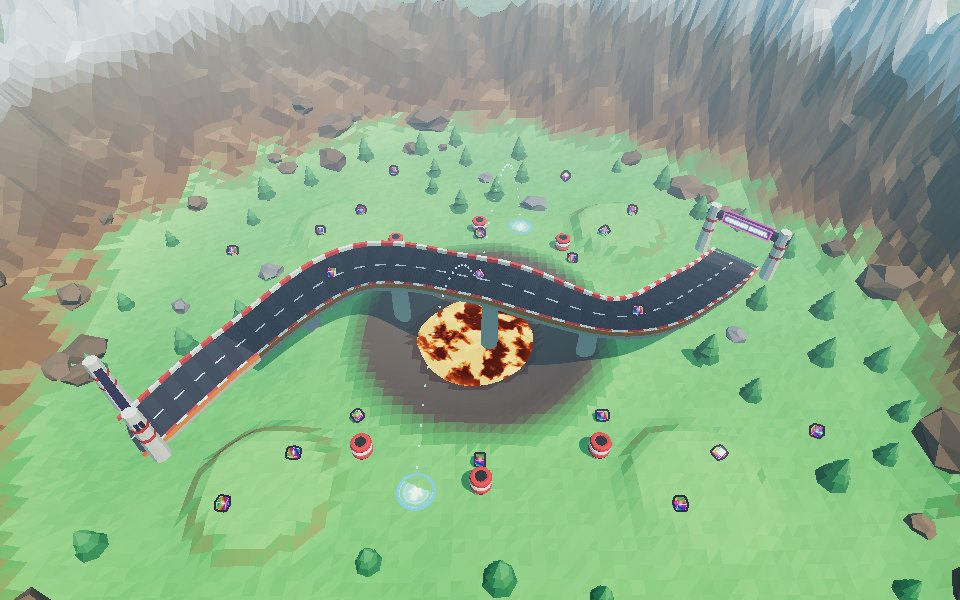
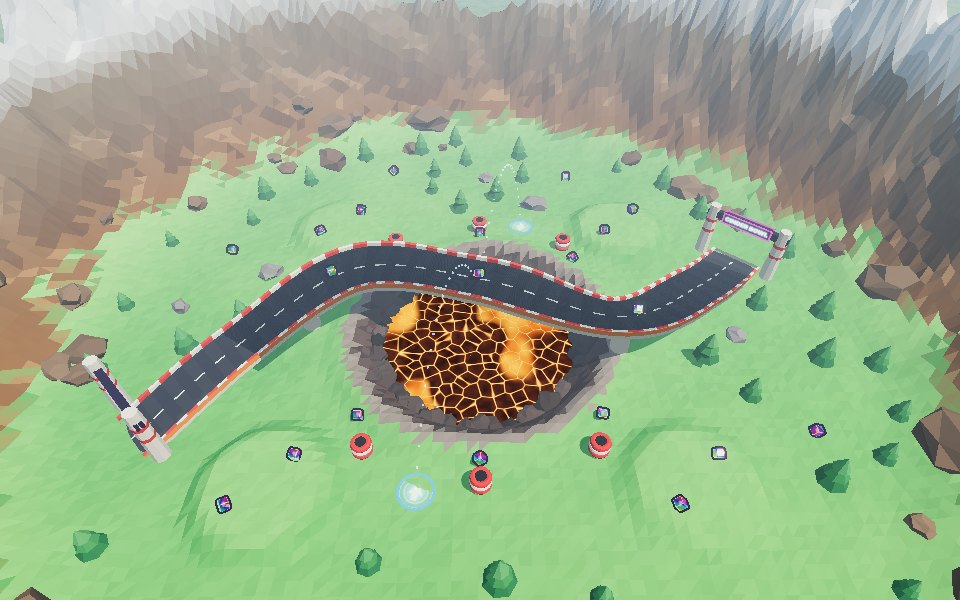
Kart: The Cinder Bowl's crater, done properly
The crater read badly from above:
- The lava was a pale beige disc with brown blotches (a pizza, not
  lava).
- The crater was a soft dark smudge round it.
- A viaduct pillar stood in the middle of the pool.
- Plateau edges left brown scribbles on the grass.
- The concrete came out teal.

Fixes:
- Lava is now a cracked-magma shader: drifting plates of black crust
  split by glowing orange-yellow seams, open molten pools between, the
  seams pulsing. It fills the whole crater, so the walls make the
  shoreline, and a ring of dark rocks traces that shoreline.
- The crater is a sunken lava lake: a wide flat bottom, steep basalt
  walls, a grey rock lip. Its edges are crisp facets, and inside the
  bowl the ground is all grass, steeper faces just darker.
- No pillars stand in the crater; the span crosses it in one go.
- The fill light keeps its sky-to-ground bounce in paler colours, so
  pale surfaces in shade stay neutral; the sun is stronger.

CPU drivers no longer path over ground too steep to hold a line (a
crater wall, a cliff): it's off the navigation grid, and moderately
steep ground costs more. In 2-minute runs with 8 drivers, those
driving into the lava on their own fell from 7 to 4 at normal and from
3 to 1 at hard, and they spend two to three times as long up on the
viaduct.

Claude-Session: https://claude.ai/code/session_01A9wR1JituBUUrjouTyRq7z

diff --git a/public/js/games/kart3d/sculpt3d.js b/public/js/games/kart3d/sculpt3d.js
@@ -37,15 +37,23 @@ const lowpolyMat = () => new THREE.MeshLambertMaterial({ vertexColors: true, fla
 
 // ---------- the ground ----------
 const BANDS = {
-  rock: col('#2b2d2f'), ember: col('#4a2c22'), ash: col('#5a4a40'),
+  rock: col('#2b2d2f'), ember: col('#6a3326'), ash: col('#5a4a40'), basalt: col('#5c4d49'), basaltDark: col('#4a3d3a'), lip: col('#8d847d'),
   grass: col('#5ec962'), grassDark: col('#48b052'), grassLight: col('#7fd86f'),
   dirt: col('#a87b4f'), cliff: col('#8c6239'), cliffDark: col('#6f4a2b'), stone: col('#8f8274'), snow: col('#e6f2ff'),
 };
-// The colour of one face: by height, steepness (up: the y of its normal) and how near the crater.
-function groundColour(h, up, crater, n) {
+// The colour of one face: by height, steepness (up: the y of its normal) and how near the crater
+// (its distance from the middle over the crater's radius). The crater is black basalt down to the
+// lava, a ring of grey rock round its lip, then straight onto grass: crisp edges, no smudges.
+function groundColour(h, up, crater, n, inBowl) {
   const b = BANDS;
-  if (h < -40) return lerpCol(b.rock, b.ember, (h + 100) / 60);
-  if (crater < 1.15) return lerpCol(b.ash, b.grassDark, (crater - 0.95) / 0.2);
+  const edge = 1.04 + (n - 0.5) * 0.06; // a ragged line between rock and grass
+  if (crater < edge - 0.1) return (n > 0.5 ? b.basalt : b.basaltDark).clone().lerp(b.ember, h < -30 ? 0.5 : 0);
+  if (crater < edge) return b.lip.clone().offsetHSL(0, 0, (n - 0.5) * 0.06);
+  if (inBowl) {
+    // Inside the bowl it's all grass: steeper faces just a shade darker.
+    const g = lerpCol(b.grassDark, b.grassLight, 0.35 + h / 140 - (1 - up) * 1.5);
+    return g.offsetHSL(0, 0, (n - 0.5) * 0.05);
+  }
   if (up < 0.72) {
     // Cliffs: earth low down, grey stone higher up, snow on the tops.
     if (h > 520) return lerpCol(b.stone, b.snow, (h - 520) / 140);
@@ -53,7 +61,7 @@ function groundColour(h, up, crater, n) {
   }
   if (h > 560) return b.snow;
   if (h > 150) return lerpCol(b.dirt, b.stone, (h - 150) / 300);
-  if (up < 0.86) return lerpCol(b.dirt, b.grassDark, (up - 0.72) / 0.14);
+  if (up < 0.8) return lerpCol(b.dirt, b.grassDark, (up - 0.72) / 0.08);
   const g = lerpCol(b.grassDark, b.grassLight, 0.35 + h / 140);
   return g.offsetHSL(0, 0, (n - 0.5) * 0.05);
 }
@@ -62,6 +70,7 @@ export function buildLowPolyLand(scene, map) {
   const land = map.land;
   const { n, cell: c, h } = land;
   const crater = (map.terrain.craters || [])[0];
+  const bowl = map.terrain.bowl;
   const quads = (n - 1) * (n - 1);
   const pos = new Float32Array(quads * 18);
   const colour = new Float32Array(quads * 18);
@@ -79,7 +88,8 @@ export function buildLowPolyLand(scene, map) {
     const cx = (a[0] + b[0] + d[0]) / 3;
     const cz = (a[2] + b[2] + d[2]) / 3;
     const cr = crater ? Math.hypot(cx - crater.x, cz - crater.y) / crater.r : 9;
-    const cc = groundColour(mh, up, cr, hash(i, j, t));
+    const inBowl = !!bowl && Math.hypot(cx - bowl.x, cz - bowl.y) < bowl.r + 40;
+    const cc = groundColour(mh, up, cr, hash(i, j, t), inBowl);
     for (const p of v) {
       pos[o] = p.x; pos[o + 1] = p.y; pos[o + 2] = p.z;
       colour[o] = cc.r; colour[o + 1] = cc.g; colour[o + 2] = cc.b;
@@ -136,42 +146,79 @@ export function buildLowPolyLand(scene, map) {
 export function buildLavaPool(scene, map, ctx) {
   const lz = map.liquid.z;
   for (const c of map.terrain.craters || []) {
-    let pool = 0;
-    for (let r = 0; r < c.r; r += 6) if (map.land.at(c.x + r, c.y) < lz && map.land.at(c.x - r, c.y) < lz) pool = r;
+    // The shoreline: at each angle, how far out the ground stays under the lava.
+    const N = 96;
+    const shoreR = [];
+    for (let k = 0; k < N; k++) {
+      const a = (k / N) * TAU;
+      let r = 0;
+      while (r < c.r * 1.2 && map.land.at(c.x + Math.cos(a) * r, c.y + Math.sin(a) * r) < lz) r += 4;
+      shoreR.push(r);
+    }
+    const pool = Math.max(...shoreR);
     if (!pool) continue;
+    // Cracked magma: plates of black crust (Voronoi cells, slowly drifting) split by glowing seams,
+    // with open pools of molten rock between; the seams pulse.
     const mat = new THREE.ShaderMaterial({
-      uniforms: { uTime: ctx.uniforms.uTime, uR: { value: pool + 60 } },
+      uniforms: { uTime: ctx.uniforms.uTime },
       vertexShader: 'varying vec2 vP; void main(){ vP = position.xz; gl_Position = projectionMatrix * modelViewMatrix * vec4(position, 1.0); }',
       fragmentShader: `
-        uniform float uTime; uniform float uR; varying vec2 vP;
-        float h(vec2 p){ return fract(sin(dot(p, vec2(127.1, 311.7))) * 43758.5453); }
-        float n(vec2 p){ vec2 i = floor(p); vec2 f = fract(p); f = f * f * (3.0 - 2.0 * f);
-          return mix(mix(h(i), h(i + vec2(1.0, 0.0)), f.x), mix(h(i + vec2(0.0, 1.0)), h(i + vec2(1.0, 1.0)), f.x), f.y); }
-        float fbm(vec2 p){ float s = 0.0; float a = 0.5; for (int k = 0; k < 4; k++) { s += n(p) * a; p = p * 2.03 + vec2(1.7, 9.2); a *= 0.5; } return s; }
+        uniform float uTime; varying vec2 vP;
+        vec2 h2(vec2 p){ p = vec2(dot(p, vec2(127.1, 311.7)), dot(p, vec2(269.5, 183.3))); return fract(sin(p) * 43758.5453); }
+        float h1(vec2 p){ return fract(sin(dot(p, vec2(41.3, 289.1))) * 43758.5453); }
+        float vn(vec2 p){ vec2 i = floor(p); vec2 f = fract(p); f = f * f * (3.0 - 2.0 * f);
+          return mix(mix(h1(i), h1(i + vec2(1.0, 0.0)), f.x), mix(h1(i + vec2(0.0, 1.0)), h1(i + vec2(1.0, 1.0)), f.x), f.y); }
+        // Distance to the nearest cell centre, and how far from a seam (second nearest minus nearest).
+        vec2 cells(vec2 x, float t){
+          vec2 n = floor(x); vec2 f = fract(x);
+          float f1 = 9.0; float f2 = 9.0;
+          for (int j = -1; j <= 1; j++) for (int i = -1; i <= 1; i++) {
+            vec2 g = vec2(float(i), float(j));
+            vec2 o = h2(n + g);
+            o = 0.5 + 0.4 * sin(t + 6.2831 * o);
+            vec2 r = g + o - f;
+            float d = dot(r, r);
+            if (d < f1) { f2 = f1; f1 = d; } else if (d < f2) { f2 = d; }
+          }
+          return vec2(sqrt(f1), sqrt(f2) - sqrt(f1));
+        }
         void main() {
-          vec2 p = vP / 70.0;
-          float t = uTime * 0.12;
-          float w = fbm(p + vec2(t, -t * 0.7));
-          float crust = fbm(p * 1.7 - vec2(t * 0.6, t * 0.4) + w * 1.6);
-          float shore = smoothstep(uR * 0.62, uR * 0.98, length(vP));
-          float heat = clamp(1.0 - smoothstep(0.4, 0.58, crust) + shore * 0.45, 0.0, 1.0);
-          vec3 cold = vec3(0.13, 0.03, 0.02);
-          vec3 red = vec3(0.62, 0.1, 0.03);
-          vec3 orange = vec3(1.05, 0.34, 0.05);
-          vec3 yellow = vec3(1.35, 0.9, 0.22);
-          vec3 col = heat < 0.5 ? mix(cold, red, heat * 2.0) : heat < 0.8 ? mix(red, orange, (heat - 0.5) / 0.3) : mix(orange, yellow, (heat - 0.8) / 0.2);
-          col *= 0.85 + 0.15 * sin(uTime * 1.7 + w * 9.0);
+          vec2 p = vP / 46.0;
+          float t = uTime * 0.25;
+          vec2 c = cells(p + vec2(t * 0.15, -t * 0.1), t);
+          float seam = 1.0 - smoothstep(0.0, 0.16, c.y);
+          float pool = smoothstep(0.55, 0.75, vn(p * 0.45 + vec2(-t * 0.2, t * 0.13)));
+          float pulse = 0.8 + 0.2 * sin(uTime * 2.3 + vn(p * 2.0) * 6.0);
+          vec3 crust = mix(vec3(0.05, 0.022, 0.02), vec3(0.13, 0.04, 0.025), vn(p * 3.0)) * (0.75 + 0.5 * c.x);
+          vec3 molten = mix(vec3(0.85, 0.12, 0.01), vec3(1.6, 0.55, 0.05), vn(p * 1.3 + t));
+          vec3 col = mix(crust, molten, max(pool, 0.0));
+          vec3 glow = mix(vec3(0.9, 0.16, 0.01), vec3(2.1, 0.95, 0.15), seam * seam);
+          col = mix(col, glow * pulse, seam * (1.0 - pool * 0.6));
           gl_FragColor = vec4(col, 1.0);
         }`,
     });
-    // The disc is centred on the crater; vP is measured from its middle.
-    const disc = new THREE.Mesh(new THREE.CircleGeometry(pool + 60, 72).rotateX(-Math.PI / 2), mat);
+    // One disc over the whole crater (the walls hide what's above the shore); vP from its middle.
+    const disc = new THREE.Mesh(new THREE.CircleGeometry(pool + 40, 96).rotateX(-Math.PI / 2), mat);
     disc.position.set(c.x, lz, c.y);
     scene.add(disc);
     // Its glow on everything round it.
     const light = new THREE.PointLight(0xff7a2a, 3, pool * 4, 1.4);
     light.position.set(c.x, lz + 60, c.y);
     scene.add(light);
+    // Dark rocks all along the shore, half sunk in the lava.
+    const rocks = [];
+    for (let k = 0; k < N; k++) {
+      if (k % 2 && hash(k, 6, 9) < 0.5) continue;
+      const a = (k / N) * TAU + (hash(k, 3, 9) - 0.5) * 0.05;
+      const rr = shoreR[k] + (hash(k, 4, 9) - 0.5) * 14;
+      const x = c.x + Math.cos(a) * rr;
+      const y = c.y + Math.sin(a) * rr;
+      rocks.push(rock({ x, y, z: lz - 8, s: 20 + hash(k, 5, 9) * 22, seed: 500 + k }, col('#4a3e3b')));
+    }
+    const shore = new THREE.Mesh(faceted(rocks), lowpolyMat());
+    shore.castShadow = true;
+    shore.receiveShadow = true;
+    scene.add(shore);
   }
 }
 
@@ -186,7 +233,7 @@ export function buildRoad(scene, map, road) {
   const th = road.thick;
   const C = {
     asphalt: col('#3a3e4a'), asphaltB: col('#353845'), line: col('#f4f1e8'), red: col('#e5383b'), white: col('#f7f5ef'),
-    fascia: col('#ff8a1f'), concrete: col('#cfc7bb'), under: col('#8d877e'),
+    fascia: col('#ff8a1f'), concrete: col('#ece2d2'), under: col('#a39b8f'),
   };
   const pos = [];
   const cols = [];

diff --git a/public/js/games/kart3d/mounts.js b/public/js/games/kart3d/mounts.js
@@ -1,0 +1,108 @@
+// Weapons on the karts: what a kart is carrying shows on it, popping on with an elastic overshoot
+// when its roulette lands and shrinking away when it's fired. Twin rocket pods ride on the side
+// pods, the bomb sits in a mortar, the snowball in a snow cannon and the sticky bomb in a goo
+// launcher. Toon-shaded with ink outlines, like the karts (kart3d/toon.js).
+//
+// Kart space: +x forward, +y up, +z the kart's right (see kart3d/gokart.js).
+import * as THREE from 'three';
+import { RoundedBoxGeometry } from 'three/addons/geometries/RoundedBoxGeometry.js';
+import { mergeGeometries } from 'three/addons/utils/BufferGeometryUtils.js';
+import { toon, outlined } from './toon.js';
+
+// Item -> mount.
+export const MOUNT_OF = { rocket: 'pods', bomb: 'mortar', snowball: 'snowgun', sticky: 'goo' };
+
+const _m = new THREE.Matrix4();
+const _q = new THREE.Quaternion();
+const _e = new THREE.Euler();
+const _p = new THREE.Vector3();
+const _s = new THREE.Vector3();
+function P(g, { at = [0, 0, 0], rot = [0, 0, 0], scale = 1, color = '#ffffff' } = {}) {
+  const geo = g.index ? g.toNonIndexed() : g.clone();
+  if (geo.attributes.uv) geo.deleteAttribute('uv');
+  const s = Array.isArray(scale) ? scale : [scale, scale, scale];
+  geo.applyMatrix4(_m.compose(_p.set(...at), _q.setFromEuler(_e.set(...rot)), _s.set(...s)));
+  const c = new THREE.Color(color);
+  const n = geo.attributes.position.count;
+  const arr = new Float32Array(n * 3);
+  for (let i = 0; i < n; i++) { arr[i * 3] = c.r; arr[i * 3 + 1] = c.g; arr[i * 3 + 2] = c.b; }
+  geo.setAttribute('color', new THREE.BufferAttribute(arr, 3));
+  return geo;
+}
+const rbox = (w, h, d, r) => new RoundedBoxGeometry(w, h, d, 2, r);
+const cyl = (r0, r1, h, n = 14) => new THREE.CylinderGeometry(r1, r0, h, n);
+const X = [0, 0, -Math.PI / 2]; // a cylinder along +x
+
+const BUILD = {
+  // A pod of two rocket tubes on each side pod, noses peeking out, a hazard stripe round it.
+  pods() {
+    const g = [];
+    for (const z of [-12.2, 12.2]) {
+      g.push(P(rbox(13, 6.6, 6.6, 1.6), { at: [3, 15.4, z], color: '#3b4150' }));
+      g.push(P(rbox(1.6, 6.9, 6.9, 0.5), { at: [-0.6, 15.4, z], color: '#facc15' }));
+      for (const dy of [-1.6, 1.6]) {
+        g.push(P(cyl(1.55, 1.55, 2.4), { at: [10.4, 15.4 + dy, z], rot: X, color: '#1f232c' }));
+        g.push(P(new THREE.ConeGeometry(1.15, 2.6, 10), { at: [11.2, 15.4 + dy, z], rot: X, color: '#ef233c' }));
+      }
+      g.push(P(rbox(6, 2, 3, 0.6), { at: [2, 11.6, z], color: '#2a2e38' })); // the bracket
+    }
+    return g;
+  },
+  // A stubby mortar on the right side pod, tipped up and forward, a gold band round its muzzle.
+  mortar() {
+    const tilt = [0, 0, -0.55];
+    return [
+      P(rbox(9, 2.4, 9, 0.8), { at: [2, 12.4, 12.2], color: '#4a505c' }),
+      P(cyl(3.6, 3.2, 10, 16), { at: [3.4, 17.4, 12.2], rot: tilt, color: '#1b2030' }),
+      P(new THREE.TorusGeometry(3.3, 0.7, 6, 16), { at: [6, 21.4, 12.2], rot: [0, Math.PI / 2, 0.55], color: '#f59e0b' }),
+      P(new THREE.SphereGeometry(2.6, 12, 8), { at: [6.2, 21.6, 12.2], color: '#0f121a' }),
+    ];
+  },
+  // The same shape in ice blue and white, with a snowball loaded.
+  snowgun() {
+    const tilt = [0, 0, -0.35];
+    return [
+      P(rbox(9, 2.4, 9, 0.8), { at: [2, 12.4, 12.2], color: '#64748b' }),
+      P(cyl(3.4, 3.4, 11, 16), { at: [4, 16.6, 12.2], rot: [0, 0, -Math.PI / 2 + 0.35], color: '#f1f5f9' }),
+      P(cyl(3.6, 3.6, 2, 16), { at: [6.5, 17.5, 12.2], rot: [0, 0, -Math.PI / 2 + 0.35], color: '#38bdf8' }),
+      P(cyl(3.6, 3.6, 2, 16), { at: [1.8, 15.8, 12.2], rot: [0, 0, -Math.PI / 2 + 0.35], color: '#38bdf8' }),
+      P(new THREE.SphereGeometry(2.8, 12, 8), { at: [9.3, 18.6, 12.2], color: '#ffffff' }),
+      void tilt,
+    ].filter(Boolean);
+  },
+  // A pink goo tank with a nozzle pointing forward.
+  goo() {
+    return [
+      P(rbox(9, 2.4, 9, 0.8), { at: [1.5, 12.4, 12.2], color: '#4a505c' }),
+      P(new THREE.SphereGeometry(4.4, 16, 12), { at: [1, 17.6, 12.2], color: '#f472b6' }),
+      P(new THREE.TorusGeometry(4.5, 0.6, 6, 18), { at: [1, 17.6, 12.2], rot: [Math.PI / 2, 0, 0], color: '#831843' }),
+      P(cyl(1.6, 1.1, 7, 12), { at: [7, 17.6, 12.2], rot: X, color: '#be185d' }),
+      P(new THREE.SphereGeometry(1.5, 10, 8), { at: [10.6, 17.6, 12.2], color: '#fbcfe8' }),
+    ];
+  },
+};
+
+const geoCache = new Map();
+let mat = null;
+// A fresh mount of `kind` (a group whose origin is the kart's, so it scales about where it sits).
+export function buildMount(kind) {
+  if (!BUILD[kind]) return null;
+  if (!geoCache.has(kind)) geoCache.set(kind, mergeGeometries(BUILD[kind]()));
+  mat = mat || toon({ vertexColors: true });
+  const geo = geoCache.get(kind);
+  const mesh = new THREE.Mesh(geo, mat);
+  mesh.castShadow = true;
+  outlined(mesh);
+  // Scale about the mount's own middle, not the kart's.
+  geo.computeBoundingBox();
+  const c = geo.boundingBox.getCenter(new THREE.Vector3());
+  const pivot = new THREE.Group();
+  pivot.position.copy(c);
+  mesh.position.copy(c).multiplyScalar(-1);
+  pivot.add(mesh);
+  pivot.userData.kind = kind;
+  pivot.userData.mesh = mesh;
+  // Where a shot leaves it (kart space), for the muzzle flash.
+  pivot.userData.muzzle = kind === 'pods' ? [12, 15.4, 0] : kind === 'mortar' ? [6.4, 22, 12.2] : kind === 'snowgun' ? [10, 19, 12.2] : [11.5, 17.6, 12.2];
+  return pivot;
+}

diff --git a/public/js/shared/kart-layers.js b/public/js/shared/kart-layers.js
@@ -39,6 +39,7 @@
   const CELL = 128; // collision lookup grid
   const REACH = KART_R + 34; // solids are listed in every cell within this distance of their footprint
   const NAV = 48; // navigation grid (CPU drivers, the map validator)
+  const NAV_SLOPE = 0.8; // ground steeper than this is no place to drive (you slide off it): not on the grid
   const EDGE = 40; // edge walls stand this far in from the side of the arena (like the flat arenas)
 
   const BOX = 0;
@@ -92,8 +93,8 @@
   // so lookups are cheap and every machine gets the very same numbers.
   //   bowl {x, y, r, height, width, max, jag}: beyond r from (x, y) the ground climbs into cliffs,
   //        height * ((d - r) / width) ^ 2.2 (up to max), made jagged by noise (jag: how much)
-  //   craters [{x, y, r, z, lip}]: inside r the ground dips (a cosine bowl) to z in the middle, with
-  //        a raised lip round the edge
+  //   craters [{x, y, r, z, lip, floor}]: inside r the ground dips to z: flat across the middle
+  //        (`floor` of the radius; 0 for a plain cosine bowl), then steep walls up to a raised lip
   // Between grid points the ground is two flat triangles per cell, split the way the renderer's
   // mesh is, so the wheels sit on exactly the faces you see.
   const TCELL = 32;
@@ -127,8 +128,9 @@
         }
         for (const c of t.craters || []) {
           const d = Math.hypot(x - c.x, y - c.y);
-          if (d < c.r) z += (c.z - z) * (0.5 + 0.5 * Math.cos((Math.PI * d) / c.r));
-          const u = (d - c.r) / (c.r * 0.3);
+          const f = (c.floor || 0) * c.r;
+          if (d < c.r) z += (c.z - z) * (d <= f ? 1 : 0.5 + 0.5 * Math.cos((Math.PI * (d - f)) / (c.r - f)));
+          const u = (d - c.r) / (c.r * 0.22);
           if (c.lip && u > -1 && u < 1) z += c.lip * (0.5 + 0.5 * Math.cos(Math.PI * u));
         }
         h[j * n + i] = z;
@@ -352,6 +354,7 @@
         if (o.s < nextAt) continue;
         const g = land ? land.at(o.x, o.y) : 0;
         if (o.z - thick - g < (pil.min || 60)) continue;
+        if ((pil.avoid || []).some((a) => Math.hypot(o.x - a.x, o.y - a.y) < a.r)) continue; // (a lava pool)
         cyls.push({ x: o.x, y: o.y, r: pil.r || 24, z0: g - 30, z1: o.z - thick + 1, kind: pil.kind || 'pillar' });
         nextAt = o.s + pil.every;
       }
@@ -901,6 +904,8 @@
           if (k + 1 < tops.length && tops[k + 1][0] - z < 1) continue; // the same floor twice (seams)
           if (map.ceilingAt(x, y, z + 0.5) - z < KART_H) continue; // no headroom
           if (map.hazardAt(x, y, z)) continue;
+          const f = map.floorInfo(x, y, z + 0.5, 0, {});
+          if (Math.hypot(f.gx, f.gy) > NAV_SLOPE) continue; // a crater wall, a cliff
           if (map.walls(x, y, z, KART_R - 2, null) > 0) continue;
           const id = xs.length;
           xs.push(x); ys.push(y); zs.push(z); bridgeOf.push(b);
@@ -925,6 +930,10 @@
       const rim = map.edge === 'wall' && (x < lo || y < lo || x > hi || y > hi);
       if (map.walls(x, y, zs[id], KART_R + 10, null) > 0) cost[id] = 1.35;
       else if (rim || map.walls(x, y, zs[id], KART_R + 22, null) > 0) cost[id] = 1.12;
+      // Steep ground pulls a kart sideways: keep to the gentle slopes unless it's the way.
+      const f = map.floorInfo(x, y, zs[id] + 0.5, 0, {});
+      const steep = Math.hypot(f.gx, f.gy);
+      if (steep > 0.45) cost[id] *= 1 + (steep - 0.45) * 6;
       for (const p of map.pads) {
         if (Math.abs(zs[id] - p.z) <= 8 && (xs[id] - p.x) ** 2 + (ys[id] - p.y) ** 2 < (p.r + KART_R) ** 2) { cost[id] = 4; padOf[id] = p.i; }
       }
@@ -1362,12 +1371,12 @@
       terrain: {
         seed: 29, amp: 50, scale: 620, base: 0, kind: 'grass', style: 'lowpoly', flats: plateaus,
         bowl: { x: C, y: C, r: 1170, height: 150, width: 300, max: 760, jag: 0.35 },
-        craters: [{ x: C, y: C, r: 400, z: -100, lip: 20 }],
+        craters: [{ x: C, y: C, r: 440, z: -120, lip: 26, floor: 0.55 }],
       },
       roads: [{
         // An S over the crater: up from the hills in the south-west, over the lava, down to the north-east.
         points: [[C - 1010, C + 400, null], [C - 760, C + 140, 76], [C - 420, C - 110, 182], [C, C, CREST], [C + 420, C + 110, 182], [C + 760, C - 140, 76], [C + 1010, C - 400, null]],
-        w: 190, thick: 18, bank: 70, curb: { w: 10, h: 13 }, pillars: { every: 300, r: 26, min: 60 }, kind: 'viaduct',
+        w: 190, thick: 18, bank: 70, curb: { w: 10, h: 13 }, pillars: { every: 300, r: 26, min: 60, avoid: [{ x: C, y: C, r: 440 }] }, kind: 'viaduct',
       }],
       blocks: [], ramps: [], cyls: [], pads: [], bumpers: [], boosts: [], hazards: [], boxes: [], spawns: [], movers: [], deco: [],
     };

diff --git a/public/js/games/kart3d/world.js b/public/js/games/kart3d/world.js
@@ -471,7 +471,7 @@ export const THEMES = {
   },
   // The Cinder Bowl: high summer in a volcano's bowl; sky-blue haze far off (exponential fog).
   cinder: {
-    sky: [0x3f93ef, 0xd6ecff], fog: [0xd0e8ff, 2200, 9000], fogExp: 0.00016, hemi: [0x87ceeb, 0x3a5f0b, 1.7], sun: [0xfff0d4, 3.1],
+    sky: [0x3f93ef, 0xd6ecff], fog: [0xd0e8ff, 2200, 9000], fogExp: 0.00016, hemi: [0xd2e8ff, 0x7d8c5a, 1.3], sun: [0xfff0d4, 3.4],
     ground: () => tex.ground('#5ec962', ['#55bd59', '#68d06c']),
     clouds: 22,
   },
